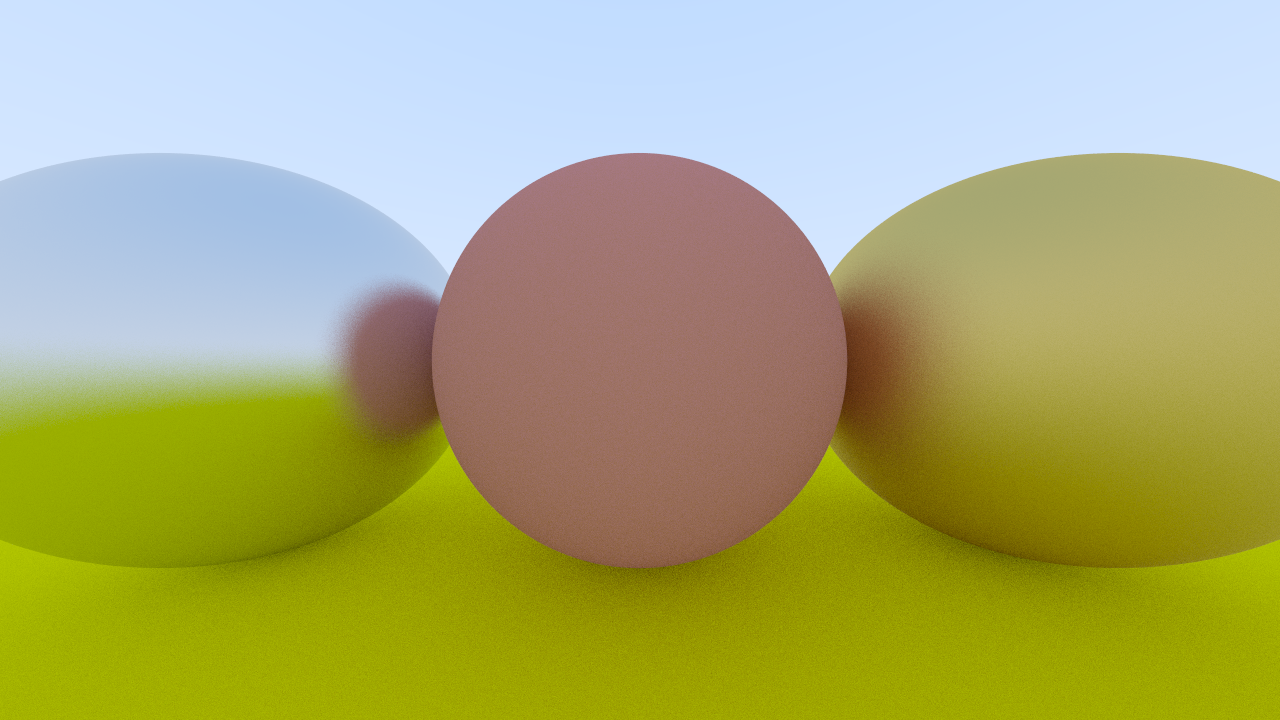
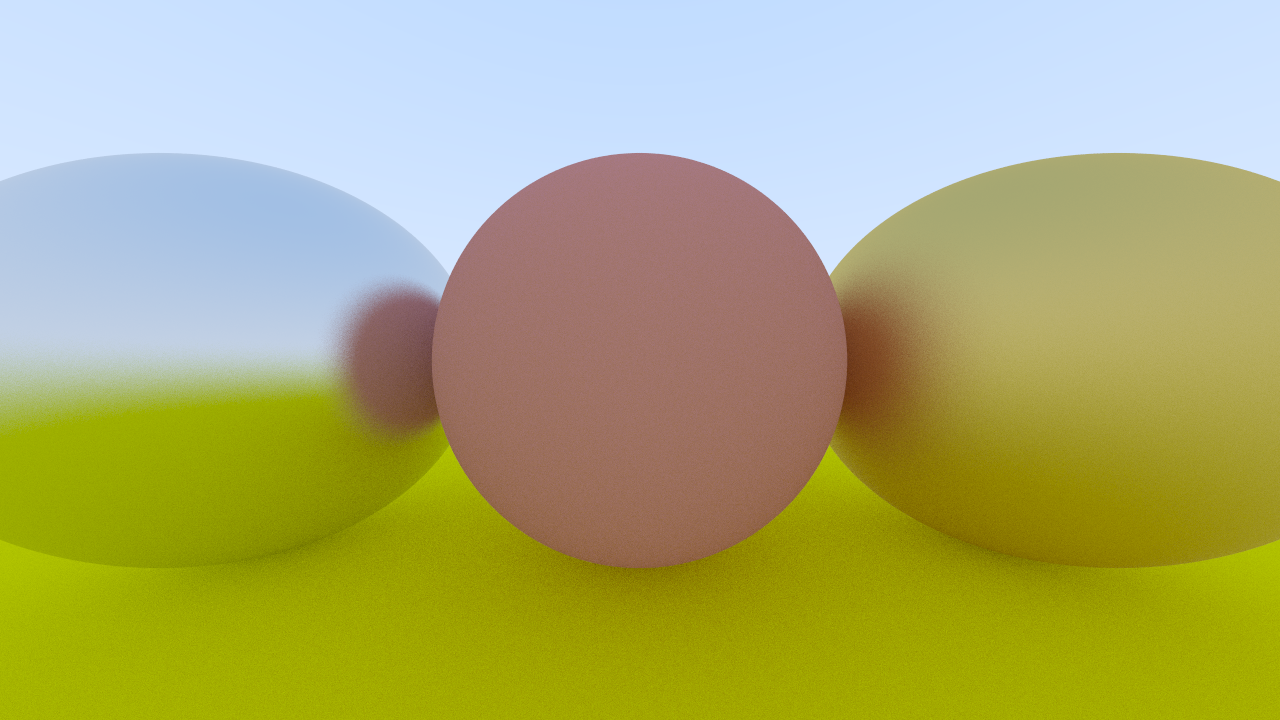
add dielectric, camera, defocus blur

diff --git a/source/Raytracer.Main/Program.cpp b/source/Raytracer.Main/Program.cpp
@@ -22,6 +22,7 @@
 
 #include "Material_Lambertian.h"
 #include "Material_Metal.h"
+#include "Material_Dielectric.h"
 
 using namespace Library;
 
@@ -35,24 +36,60 @@ int main(int, char**)
 	assert(img_rgb != nullptr);
 
 	// PROPERTIES
-	const std::size_t samples_per_pixel = 100;
+	const std::size_t samples_per_pixel = 500;
 	const std::size_t bounce_limit = 50;
 
 	// WORLD
 	RenderObjectList world;
 
-	std::shared_ptr<Material_Lambertian> material_ground = std::make_shared<Material_Lambertian>(color(0.8, 0.8, 0.0));
-	std::shared_ptr<Material_Lambertian> material_center = std::make_shared<Material_Lambertian>(color(0.7, 0.3, 0.3));
-	std::shared_ptr<Material_Metal> material_left = std::make_shared<Material_Metal>(color(0.8, 0.8, 0.8), 0.3);
-	std::shared_ptr<Material_Metal> material_right = std::make_shared<Material_Metal>(color(0.8, 0.6, 0.2));
+	// ------------------------------------------------------------ generate random world ------------------------------------------------------
+	std::shared_ptr<Material_Lambertian> ground_material = std::make_shared<Material_Lambertian>(color(0.5, 0.5, 0.5));
+	world.add(std::make_shared<Sphere>(pos3(0, -1000, 0), 1000, ground_material));
 
-	world.add(std::make_shared<Sphere>(pos3(0.0, -100.5, -1.0), 100.0, material_ground));
-	world.add(std::make_shared<Sphere>(pos3(0.0, 0.0, -1.0), 0.5, material_center));
-	world.add(std::make_shared<Sphere>(pos3(-1.0, 0.0, -1.0), 0.5, material_left));
-	world.add(std::make_shared<Sphere>(pos3(1.0, 0.0, -1.0), 0.5, material_right));
+	for (std::int32_t i = -11; i < 11; ++i)
+	{
+		for (std::int32_t ii = -11; ii < 11; ++ii)
+		{
+			precision choose_mat = get_random01();
+			pos3 center(i + 0.9 * get_random01(), 0.2, ii + 0.9 * get_random01());
+
+			if ((center - pos3(4, 0.2, 0)).length() > 0.9) {
+				std::shared_ptr<Material> sphere_material;
+
+				if (choose_mat < 0.8) {
+					// diffuse
+					auto albedo = color::random() * color::random();
+					sphere_material = std::make_shared<Material_Lambertian>(albedo);
+					world.add(std::make_shared<Sphere>(center, 0.2, sphere_material));
+				}
+				else if (choose_mat < 0.95) {
+					// metal
+					auto albedo = color::random(0.5, 1);
+					auto fuzz = get_random(0, 0.5);
+					sphere_material = std::make_shared<Material_Metal>(albedo, fuzz);
+					world.add(std::make_shared<Sphere>(center, 0.2, sphere_material));
+				}
+				else {
+					// glass
+					sphere_material = std::make_shared<Material_Dielectric>(1.5);
+					world.add(std::make_shared<Sphere>(center, 0.2, sphere_material));
+				}
+			}
+		}
+	}
+
+	std::shared_ptr<Material_Dielectric> material1 = std::make_shared<Material_Dielectric>(1.5);
+	world.add(std::make_shared<Sphere>(pos3(0, 1, 0), 1.0, material1));
+
+	std::shared_ptr<Material_Lambertian> material2 = std::make_shared<Material_Lambertian>(color(0.4, 0.2, 0.1));
+	world.add(std::make_shared<Sphere>(pos3(-4, 1, 0), 1.0, material2));
+
+	std::shared_ptr<Material_Metal> material3 = std::make_shared<Material_Metal>(color(0.7, 0.6, 0.5), 0.0);
+	world.add(std::make_shared<Sphere>(pos3(4, 1, 0), 1.0, material3));
+	// // --------------------------------------------------------------------------------------------------------------------------------------
 
 	// RENDER IMAGE
-	Camera camera{ 2.0, 1.0 };
+	Camera camera{ pos3 {13,2,3}, pos3{0,0,0}, 20.0, vec3{0,1,0}, 0.1, 10.0 };
 
 	// cos3 distribution
 	{
@@ -65,8 +102,8 @@ int main(int, char**)
 
 				for (std::size_t sample = 0; sample < samples_per_pixel; ++sample)
 				{
-					precision u = (ii + get_random()) / (img_width - 1);
-					precision v = (i + get_random()) / (img_height - 1);
+					precision u = (ii + get_random01()) / (img_width - 1);
+					precision v = (i + get_random01()) / (img_height - 1);
 					pixel_color += ray_color_cos3(camera.get_ray(u, v), world, bounce_limit);
 				}
 
@@ -91,8 +128,8 @@ int main(int, char**)
 
 				for (std::size_t sample = 0; sample < samples_per_pixel; ++sample)
 				{
-					precision u = (ii + get_random()) / (img_width - 1);
-					precision v = (i + get_random()) / (img_height - 1);
+					precision u = (ii + get_random01()) / (img_width - 1);
+					precision v = (i + get_random01()) / (img_height - 1);
 					pixel_color += ray_color_cos(camera.get_ray(u, v), world, bounce_limit);
 				}
 
@@ -117,8 +154,8 @@ int main(int, char**)
 
 				for (std::size_t sample = 0; sample < samples_per_pixel; ++sample)
 				{
-					precision u = (ii + get_random()) / (img_width - 1);
-					precision v = (i + get_random()) / (img_height - 1);
+					precision u = (ii + get_random01()) / (img_width - 1);
+					precision v = (i + get_random01()) / (img_height - 1);
 					pixel_color += ray_color_hemispherical(camera.get_ray(u, v), world, bounce_limit);
 				}
 

diff --git a/source/Library.Shared/Camera.cpp b/source/Library.Shared/Camera.cpp
@@ -3,16 +3,28 @@
 
 namespace Library
 {
-	Camera::Camera(precision screen_height, precision focal_length, pos3 origin) :
-		_origin{ origin },
-		_screen_horizontal{ aspect_ratio * screen_height, 0, 0 },
-		_screen_vertical{ 0, screen_height, 0 },
-		_screen_bottomleft{ origin.x() - (aspect_ratio * screen_height) / 2, origin.y() - screen_height / 2, origin.z() - focal_length }
+	Camera::Camera(pos3 lookfrom, pos3 lookat, precision vertical_fov_degrees, vec3 vertical_up, precision aperture, precision focus_dist)
 	{
+		precision viewport_height = 2.0 * tan(degrees_to_radians(vertical_fov_degrees) / 2);
+		precision viewport_width = aspect_ratio * viewport_height;
+
+		vec3 w = unit_vector(lookfrom - lookat);
+		_u = unit_vector(cross(vertical_up, w));
+		_v = cross(w, _u);
+
+		_origin = lookfrom;
+		_screen_horizontal = focus_dist * viewport_width * _u;
+		_screen_vertical = focus_dist * viewport_height * _v;
+		_screen_bottomleft = _origin - _screen_horizontal / 2 - _screen_vertical / 2 - focus_dist * w;
+
+		_lensradius = aperture / 2;
 	}
 
 	Ray Camera::get_ray(precision u, precision v) const
 	{
-		return Ray{ _origin, _screen_bottomleft + u * _screen_horizontal + v * _screen_vertical - _origin };
+		vec3 rand_disc = _lensradius * random_in_unit_circle();
+		vec3 offset = _u * rand_disc.x() + _v * rand_disc.y();
+
+		return Ray{ _origin + offset, _screen_bottomleft + u * _screen_horizontal + v * _screen_vertical - _origin - offset };
 	}
 }

diff --git a/source/Raytracer.Main/Material_Dielectric.cpp b/source/Raytracer.Main/Material_Dielectric.cpp
@@ -1,0 +1,30 @@
+#include "pch.h"
+#include "Material_Dielectric.h"
+#include "IRenderObject.h"
+
+bool Material_Dielectric::scatter(const Ray& ray, const HitInfo& hitinfo, vec3& attenuation, Ray& ray_scattered, vec3 random_diffuse, bool ishemisphere) const
+{
+	attenuation = color(1.0, 1.0, 1.0);
+	double refraction_ratio = hitinfo.isFrontFace ? (1.0 / _indexofrefraction) : _indexofrefraction;
+
+	vec3 unit_direction = unit_vector(ray.direction());
+
+	precision cos_theta = std::fmin(dot(-unit_direction, hitinfo.normal), 1.0);
+	precision sin_theta = std::sqrt(1.0 - cos_theta * cos_theta);
+	ray_scattered = Ray{ hitinfo.pos,
+		vec3{
+			((refraction_ratio * sin_theta > 1.0) || reflectance(cos_theta, refraction_ratio) > get_random01()) ?
+			reflect(unit_direction,hitinfo.normal) :
+			refract(unit_direction,hitinfo.normal, refraction_ratio) }
+	};
+
+	return true;
+}
+
+precision Material_Dielectric::reflectance(precision cosine, precision refraction_ratio) const
+{
+	// Schlick's Approximation for reflectance
+	precision r0 = (1 - refraction_ratio) / (1 + refraction_ratio);
+	r0 = r0 * r0;
+	return r0 + (1 - r0) * std::pow((1 - cosine), 5);
+}

diff --git a/source/Library.Shared/vec3.h b/source/Library.Shared/vec3.h
@@ -56,7 +56,7 @@ namespace Library
 		inline precision length() const { return std::sqrt(_vec[0] * _vec[0] + _vec[1] * _vec[1] + _vec[2] * _vec[2]); }
 		inline precision length_squared() const { return _vec[0] * _vec[0] + _vec[1] * _vec[1] + _vec[2] * _vec[2]; }
 
-		inline static vec3 random() { return vec3(get_random(), get_random(), get_random()); }
+		inline static vec3 random() { return vec3(get_random01(), get_random01(), get_random01()); }
 		inline static vec3 random(precision min_included, precision max_excluded) { return vec3(get_random(min_included, max_excluded), get_random(min_included, max_excluded), get_random(min_included, max_excluded)); }
 
 		bool is_near_zero() const;
@@ -92,8 +92,10 @@ namespace Library
 	vec3 random_in_unit_sphere();
 	vec3 random_unit_vector();
 	vec3 random_in_unit_hemisphere(const vec3& normal);
+	vec3 random_in_unit_circle();
 
 	vec3 reflect(const vec3& v, const vec3& n);
+	vec3 refract(const vec3& v, const vec3& n, precision index_of_refraction);
 
 	// alias
 	using color = vec3;

diff --git a/source/Library.Shared/vec3.cpp b/source/Library.Shared/vec3.cpp
@@ -57,8 +57,26 @@ namespace Library
 		else return -in_unit_sphere;
 	}
 
+	vec3 random_in_unit_circle()
+	{
+		while (true)
+		{
+			vec3 rand_vec = vec3{ get_random(-1, 1), get_random(-1, 1), 0 };
+			if (rand_vec.length_squared() < 1) return rand_vec;
+		}
+	}
+
 	vec3 reflect(const vec3& direction, const vec3& normal)
 	{
 		return direction - 2 * dot(direction, normal) * normal;
 	}
+
+	vec3 refract(const vec3& v, const vec3& n, precision index_of_refraction)
+	{
+		precision cos_theta = std::fmin(dot(-v, n), 1.0);
+		vec3 r_out_perp = index_of_refraction * (v + cos_theta * n);
+		vec3 r_out_parallel = -std::sqrt(std::fabs(1.0 - r_out_perp.length_squared())) * n;
+		return r_out_perp + r_out_parallel;
+	}
+
 }

diff --git a/source/Library.Shared/Camera.h b/source/Library.Shared/Camera.h
@@ -7,15 +7,18 @@ namespace Library
 	class Camera final
 	{
 	public:
-		Camera(precision screen_height, precision focal_length, pos3 origin = pos3{ 0,0,0 });
+		Camera(pos3 lookfrom, pos3 lookat, precision vertical_fov_degrees, vec3 vertical_up = vec3{ 0,1,0 }, precision aperture = 0, precision focus_dist = 1.0);
 		~Camera() = default;
 
 		Ray get_ray(precision u, precision v) const;
 
 	private:
-		const pos3 _origin;
-		const vec3 _screen_horizontal;
-		const vec3 _screen_vertical;
-		const pos3 _screen_bottomleft;
+		pos3 _origin;
+		vec3 _screen_horizontal;
+		vec3 _screen_vertical;
+		pos3 _screen_bottomleft;
+
+		precision _lensradius;
+		vec3 _u, _v;
 	};
 }

diff --git a/source/Library.Shared/helper.h b/source/Library.Shared/helper.h
@@ -65,13 +65,15 @@ namespace Library
 
 	color ray_color_hemispherical(const Ray& ray, const IRenderObject& world, std::size_t bounce_limit)
 	{
+		if (bounce_limit == 0) return color{ 0,0,0 };
+
 		HitInfo hitinfo;
 		if (world.hit(ray, 0.001, infinity, hitinfo))
 		{
 			Ray ray_scattered;
 			color attenuation;
 			if (hitinfo.material->scatter(ray, hitinfo, attenuation, ray_scattered, random_in_unit_hemisphere(hitinfo.normal), true))
-				return attenuation * ray_color_cos(ray_scattered, world, bounce_limit - 1);
+				return attenuation * ray_color_hemispherical(ray_scattered, world, bounce_limit - 1);
 
 			return color(0, 0, 0);
 		}

diff --git a/source/Library.Shared/common.h b/source/Library.Shared/common.h
@@ -22,7 +22,7 @@ namespace Library
 		return degrees * pi / 180.0;
 	}
 
-	inline precision get_random()
+	inline precision get_random01()
 	{
 		static std::uniform_real_distribution<precision> distribution(0.0, 1.0);
 		static std::minstd_rand generator;
@@ -31,7 +31,7 @@ namespace Library
 
 	inline precision get_random(precision min_included, precision max_excluded)
 	{
-		return ((max_excluded - min_included) * get_random()) + min_included;
+		return ((max_excluded - min_included) * get_random01()) + min_included;
 	}
 
 	inline precision clamp(precision val, precision min, precision max)

diff --git a/source/Raytracer.Main/Material_Dielectric.h b/source/Raytracer.Main/Material_Dielectric.h
@@ -1,0 +1,18 @@
+#pragma once
+#include "vec3.h"
+#include "Material.h"
+
+using namespace Library;
+
+class Material_Dielectric final : public Material
+{
+public:
+	Material_Dielectric(precision index_of_refraction) : _indexofrefraction{ index_of_refraction } {}
+	virtual bool scatter(const Ray& ray, const HitInfo& hitinfo, vec3& attenuation, Ray& ray_scattered, vec3 random_diffuse, bool ishemisphere = false) const override;
+
+private:
+	precision reflectance(precision cosine, precision refraction_ratio) const;
+
+private:
+	precision _indexofrefraction;
+};

diff --git a/source/Raytracer.Main/Material_Metal.h b/source/Raytracer.Main/Material_Metal.h
@@ -4,7 +4,7 @@
 
 using namespace Library;
 
-class Material_Metal : public Material
+class Material_Metal final : public Material
 {
 public:
 	Material_Metal(color color_albedo = color{ 1,0,1 }, precision fuzziness = 1.0) :albedo{ color_albedo }, fuzz{ (fuzziness<1)?fuzziness:1 } {}

diff --git a/source/Raytracer.Main/Material_Lambertian.h b/source/Raytracer.Main/Material_Lambertian.h
@@ -4,7 +4,7 @@
 
 using namespace Library;
 
-class Material_Lambertian : public Material
+class Material_Lambertian final : public Material
 {
 public:
 	Material_Lambertian(color color_albedo = color{ 1,0,1 }) :albedo{ color_albedo } {}
